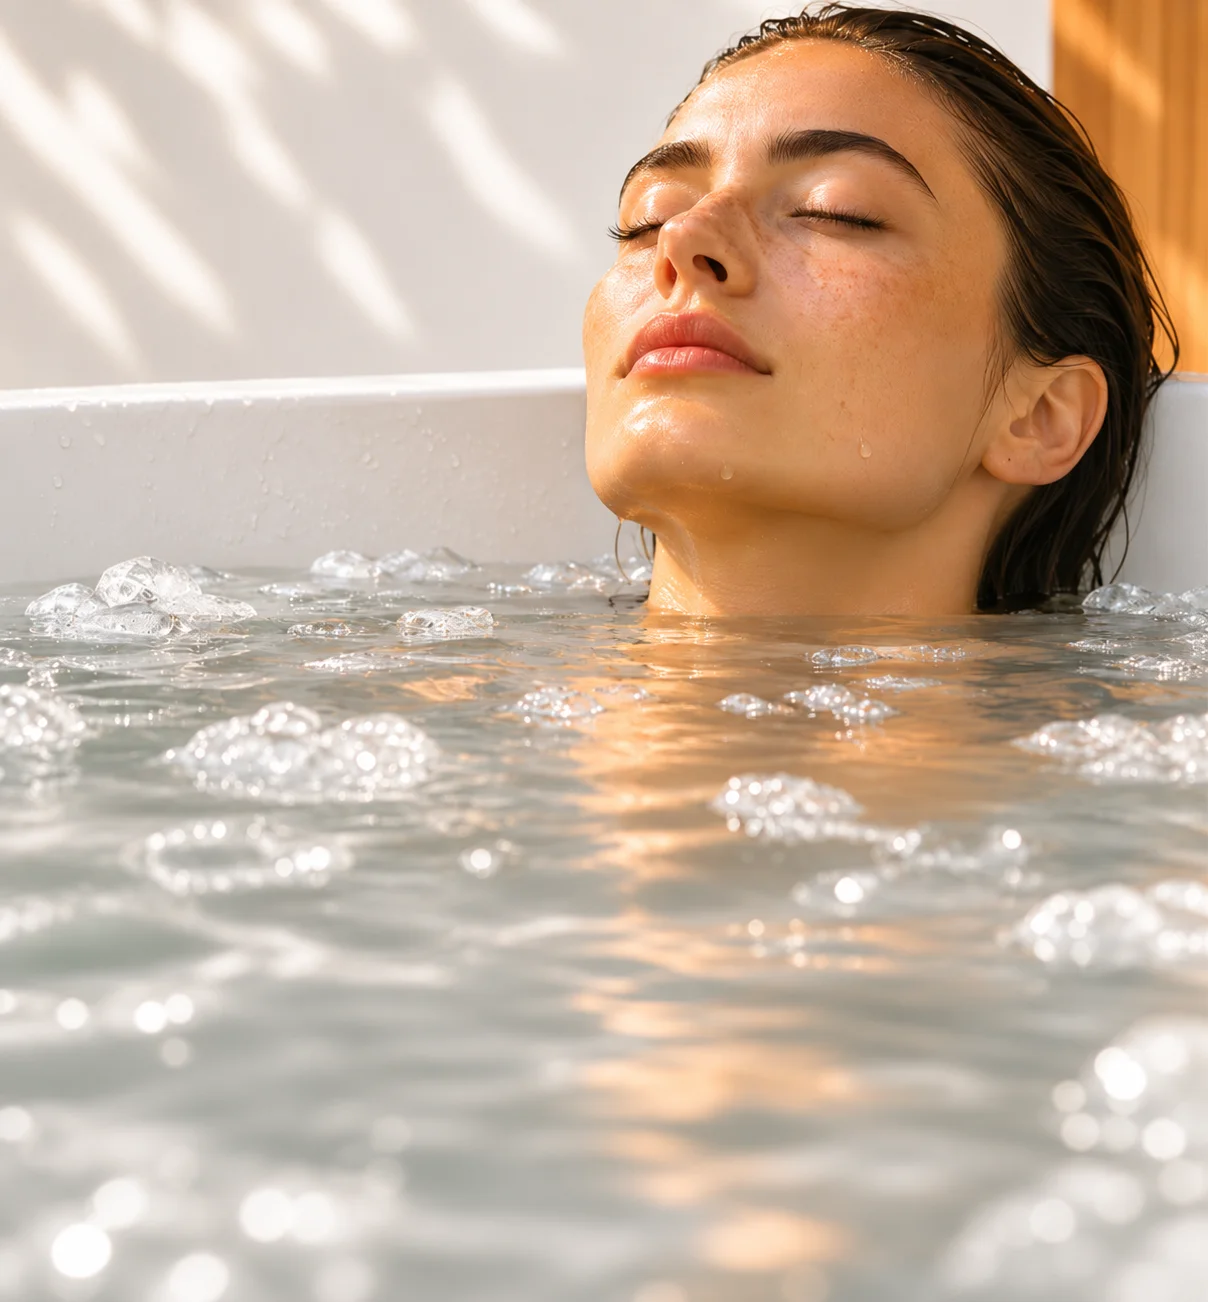
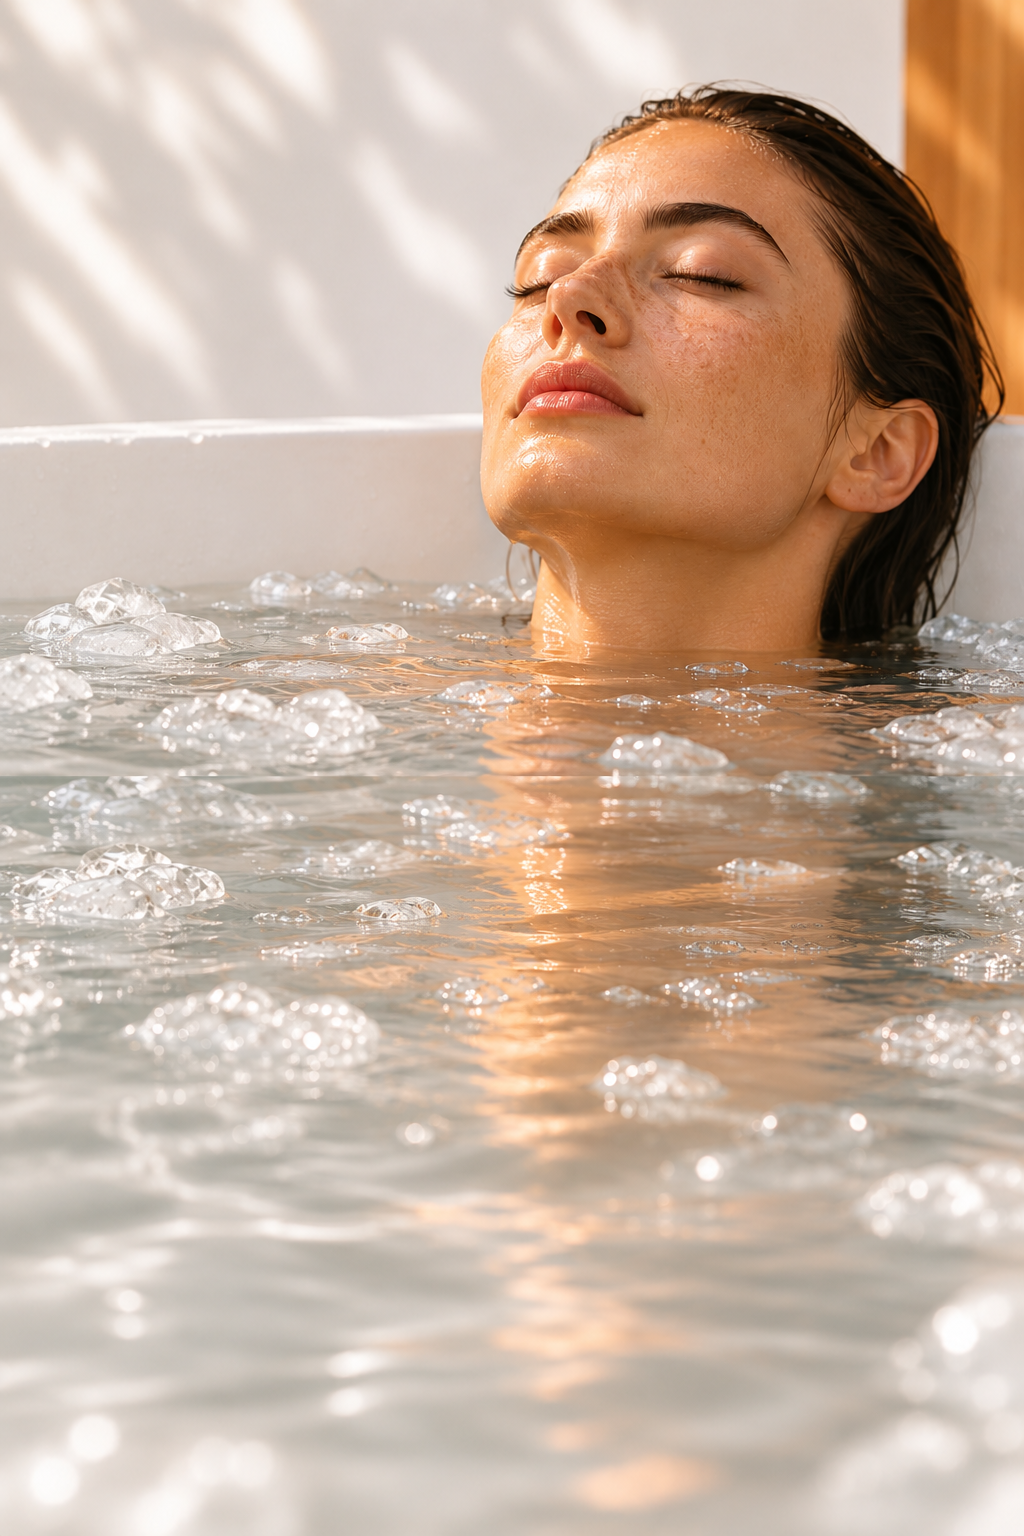
feat: add ExperienceHeroJourney and Footer components with media assets

diff --git a/components/common/Footer.tsx b/components/common/Footer.tsx
@@ -35,9 +35,9 @@ export default function Footer({ onOpenEnquire }: FooterProps) {
       <div className="relative z-10 w-full px-0 sm:px-4 md:px-8 lg:px-12">
         <div className="max-w-360 mx-auto bg-[#232613] text-saha-bg px-6 sm:px-10 lg:px-14 py-10 sm:py-12 shadow-xl border-t border-[#3B421C]/50">
           {/* Top Brand & Navigation */}
-          <div className="flex flex-col md:flex-row md:items-end justify-between gap-8 md:gap-10">
-            {/* Brand Logo with White Typography */}
-            <div className="space-y-3">
+          <div className="flex flex-col sm:flex-row sm:items-end justify-between gap-8 md:gap-10 items-center sm:items-start text-center sm:text-left">
+            {/* Brand Logo with Symmetrical Center on Mobile */}
+            <div className="w-full sm:w-auto flex justify-center sm:justify-start">
               <Link
                 href="/"
                 className="inline-block group focus:outline-hidden"
@@ -46,20 +46,19 @@ export default function Footer({ onOpenEnquire }: FooterProps) {
                 <img
                   src="/logo_bg_removed.webp"
                   alt="Sahā - Breathe · Be · Balance"
-                  className="h-14 sm:h-16 md:h-18 w-auto object-contain block"
+                  className="h-14 sm:h-16 md:h-18 w-auto object-contain block mx-auto sm:mx-0"
                 />
               </Link>
-             
             </div>
 
-            {/* Navigation Links */}
-            <nav className="flex flex-wrap items-center gap-6 sm:gap-8">
+            {/* Navigation Links: 2x2 balanced grid on mobile, horizontal row on tablet/desktop */}
+            <nav className="w-full sm:w-auto grid grid-cols-2 gap-x-6 sm:gap-x-8 gap-y-3.5 sm:gap-y-0 sm:flex sm:flex-wrap sm:items-center max-w-[300px] sm:max-w-none mx-auto sm:mx-0 text-center sm:text-left">
               {footerLinks.map((item) =>
                 item.action ? (
                   <button
                     key={item.label}
                     onClick={item.action}
-                    className="text-[10px] sm:text-[11px] font-medium tracking-[0.22em] text-[#9EA391] hover:text-[#D8BE6B] transition-colors uppercase cursor-pointer"
+                    className="text-[10.5px] sm:text-[11px] font-medium tracking-[0.2em] text-[#9EA391] hover:text-[#D8BE6B] transition-colors uppercase cursor-pointer py-1.5 focus:outline-hidden"
                   >
                     {item.label}
                   </button>
@@ -67,7 +66,7 @@ export default function Footer({ onOpenEnquire }: FooterProps) {
                   <Link
                     key={item.label}
                     href={item.href}
-                    className="text-[10px] sm:text-[11px] font-medium tracking-[0.22em] text-[#9EA391] hover:text-[#D8BE6B] transition-colors uppercase"
+                    className="text-[10.5px] sm:text-[11px] font-medium tracking-[0.2em] text-[#9EA391] hover:text-[#D8BE6B] transition-colors uppercase py-1.5 focus:outline-hidden"
                   >
                     {item.label}
                   </Link>
@@ -77,12 +76,12 @@ export default function Footer({ onOpenEnquire }: FooterProps) {
           </div>
 
           {/* Hairline Divider */}
-          <div className="w-full h-[1px] bg-[#373D1E] mt-10 sm:mt-12 mb-6" />
+          <div className="w-full h-[1px] bg-[#373D1E] mt-8 sm:mt-10 md:mt-12 mb-6" />
 
           {/* Copyright & Core Values */}
-          <div className="flex flex-col sm:flex-row items-center justify-between gap-4 text-[10px] sm:text-[11px] tracking-[0.25em] text-[#717763] uppercase">
+          <div className="flex flex-col sm:flex-row items-center justify-between gap-3 sm:gap-4 text-[10px] sm:text-[11px] tracking-[0.25em] text-[#717763] uppercase text-center sm:text-left">
             <div>© 2026 SAHĀ</div>
-            <div>BREATHE · BE · BALANCE</div>
+            <div className="text-[9.5px] sm:text-[11px] tracking-[0.28em] text-[#868C76]">BREATHE · BE · BALANCE</div>
           </div>
         </div>
       </div>

diff --git a/components/whoisitfor/DistinctionCta.tsx b/components/whoisitfor/DistinctionCta.tsx
@@ -62,10 +62,10 @@ export default function DistinctionCta({ onOpenEnquire }: DistinctionCtaProps) {
     >
       <div
         ref={cardRef}
-        className="relative bg-[#F2EEE6] border border-[#E0D9CC] rounded-[2px] px-8 py-12 sm:px-12 sm:py-16 lg:px-16 lg:py-20 shadow-xs overflow-hidden"
+        className="relative bg-[#F2EEE6] border border-[#E0D9CC] rounded-xs px-8 py-12 sm:px-12 sm:py-16 lg:px-16 lg:py-20 shadow-xs overflow-hidden"
       >
         {/* Subtle Luxury Pattern Texture */}
-        <div className="absolute inset-0 opacity-[0.035] bg-[radial-gradient(#2B2520_1px,transparent_1px)] [background-size:24px_24px] pointer-events-none" />
+        <div className="absolute inset-0 opacity-[0.035] bg-[radial-gradient(#2B2520_1px,transparent_1px)] bg-size-[24px_24px] pointer-events-none" />
 
         <div className="grid grid-cols-1 lg:grid-cols-12 gap-10 lg:gap-14 items-start relative z-10">
           {/* Left Column */}
@@ -94,7 +94,7 @@ export default function DistinctionCta({ onOpenEnquire }: DistinctionCtaProps) {
             <div className="pt-3">
               <button
                 onClick={handleOpenEnquire}
-                className="inline-flex items-center gap-2.5 px-6 sm:px-7 py-3 bg-[#2B2520] hover:bg-[#171412] text-[#F2EEE6] text-[11px] sm:text-xs font-medium tracking-[0.18em] uppercase transition-all rounded-[2px] active:scale-98 cursor-pointer group/btn"
+                className="inline-flex items-center gap-2.5 px-6 sm:px-7 py-3 bg-[#2B2520] hover:bg-[#171412] text-[#F2EEE6] text-[11px] sm:text-xs font-medium tracking-[0.18em] uppercase transition-all rounded-xs active:scale-98 cursor-pointer group/btn"
               >
                 <span>Begin with a conversation</span>
                 <ArrowUpRight className="w-3.5 h-3.5 transition-transform group-hover/btn:translate-x-0.5 group-hover/btn:-translate-y-0.5" />

diff --git a/components/experience/ExperienceHeroJourney.tsx b/components/experience/ExperienceHeroJourney.tsx
@@ -167,7 +167,7 @@ export default function ExperienceHeroJourney() {
         className="absolute top-0 inset-x-0 w-full h-[112%] -z-10 pointer-events-none select-none overflow-hidden origin-top"
       >
         <Image
-          src="/experience.webp"
+          src="/experience/experience.webp"
           alt="Sahā Experience — Time away, used with intention"
           fill
           priority
